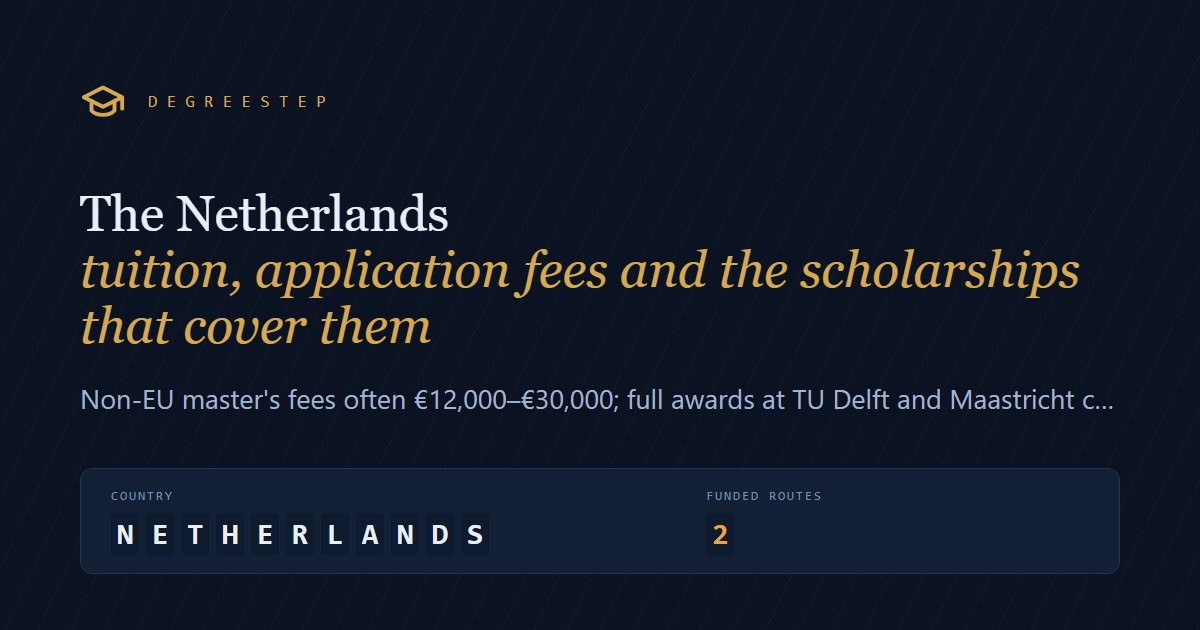
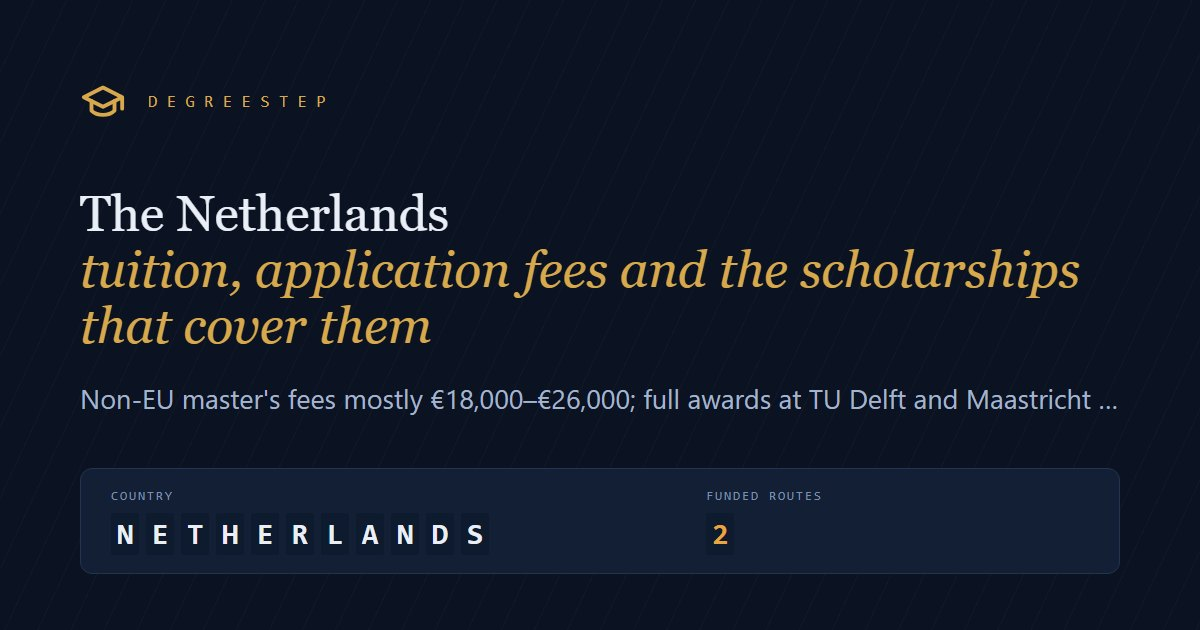
Netherlands: tuition at each university; search titles that match what people search
Search Console showed the Netherlands guide 701 times in 28 days at position 58, for searches like
"netherlands tuition fees" and "cheap tuition fee universities in netherlands", with no clicks. The
guide now has a table of non-EU bachelor's and master's fees for 13 research universities, from each
university's own fee page, the cheapest options, and a search title built around those searches.

Funded PhDs guide, no-application-fee guide and the ETH fellowships story get search titles and
descriptions closer to their searches ("paid phd positions in europe", "eth ai center doctoral
fellowship 2027"). Two contextual links point to the Netherlands guide. The PhD guide no longer says
how its examples were checked.

Changed region(s): [[0.2775, 0.6032, 0.925, 0.6635]]

diff --git a/content/guides/funded-phd-europe.html b/content/guides/funded-phd-europe.html
@@ -1,13 +1,13 @@
-<!--{"title": "How funded PhDs work in Europe: salaried posts, fellowships and scholarships", "description": "In much of Europe a PhD is a paid job, not a scholarship. How salaried PhD posts, doctoral fellowships and PhD scholarships differ, how to read a PhD advert, and where to find funded positions.", "meta_title": "How funded PhDs work in Europe: salaried posts and fellowships", "meta_description": "In much of Europe a PhD is a paid job. How salaried posts, doctoral fellowships and PhD scholarships differ, how to read an advert and where to find positions.", "kicker": "PhD", "updated": "2026-10-05", "order": 9.5, "menu": "Funded PhDs in Europe"}-->
+<!--{"title": "How funded PhDs work in Europe: salaried posts, fellowships and scholarships", "description": "In much of Europe a PhD is a paid job, not a scholarship. How salaried PhD posts, doctoral fellowships and PhD scholarships differ, how to read a PhD advert, and where to find funded positions.", "meta_title": "Paid PhD positions in Europe: salaries and how funded PhDs work", "meta_description": "In Sweden, Norway, Denmark and much of Europe a PhD is a paid job. Real salaries, doctoral fellowships and scholarships, and where to find funded PhD positions.", "kicker": "PhD", "updated": "2026-10-05", "order": 9.5, "menu": "Funded PhDs in Europe"}-->
 <p>If you are used to thinking of a PhD as something you need a scholarship for, Europe can be a pleasant surprise. In much of the continent a PhD is a <strong>job</strong>: the university advertises a position, pays you a salary, and you apply for it much as you would for any other job. Alongside these sit doctoral fellowship programmes and classic PhD scholarships. Knowing which kind you are applying for changes how you search, what you send, and what you can expect to earn.</p>
 
-<p>The examples below come from real adverts we checked on 5 October 2026 and list on our <a href="{{root}}positions/">funded positions</a> page.</p>
+<p>The examples below come from real adverts listed on our <a href="{{root}}positions/">funded positions</a> page.</p>
 
 <h2>1. The PhD as a salaried job</h2>
 <p>In <strong>Sweden</strong>, doctoral students are employed on fixed-term contracts that cover four years of full-time doctoral study. Many posts include up to 20% teaching or administration, which can stretch the contract to five years. Lund University's 2026 advert for a PhD in datacenter control, for example, offers SEK 35,900 a month to start, with yearly increases.</p>
 <p>In <strong>Norway</strong>, the post is usually called a doctoral research fellowship. At the University of Oslo it typically lasts three years, and adverts in autumn 2026 offered NOK 550,800 to about 607,500 a year, from which 2% goes to the state pension fund.</p>
 <p>In <strong>Denmark</strong>, three-year PhD positions are also salaried: a University of Copenhagen humanities PhD advertised in October 2026 paid about DKK 31,844 a month plus an 18.07% pension contribution.</p>
-<p>Many PhD positions in the Netherlands and Germany are employment contracts too, though terms vary more, so read each advert. Because these are jobs, they come with employee rights, and in Sweden, Norway and Denmark you do not need a separate scholarship at all.</p>
+<p>Many PhD positions in the <a href="{{root}}countries/netherlands/">Netherlands</a> and <a href="{{root}}countries/germany/">Germany</a> are employment contracts too, though terms vary more, so read each advert. Because these are jobs, they come with employee rights, and in Sweden, Norway and Denmark you do not need a separate scholarship at all.</p>
 
 <div class="callout"><b>Tip:</b> a salaried PhD usually counts as income for your residence permit, which makes the visa far simpler than proving savings. See our <a href="{{root}}guides/visa-money-work-compared/">visa money comparison</a>.</div>
 

diff --git a/content/guides/universities-with-no-application-fee.html b/content/guides/universities-with-no-application-fee.html
@@ -1,4 +1,4 @@
-<!--{"title": "Universities with no application fee, and how to get the fee waived", "description": "Which universities in Europe, the UK, the USA and Canada let international students apply for free, what the others charge, and the waivers that bring the cost to zero.", "meta_title": "Universities with no application fee, and how to get it waived", "meta_description": "Which universities in Europe, the UK, the USA and Canada let international students apply for free, what others charge, and waivers that bring it to zero.", "kicker": "Money", "updated": "2026-10-09", "published": "2026-10-09", "order": 2.2, "menu": "Universities with no application fee"}-->
+<!--{"title": "Universities with no application fee, and how to get the fee waived", "description": "Which universities in Europe, the UK, the USA and Canada let international students apply for free, what the others charge, and the waivers that bring the cost to zero.", "meta_title": "Universities with no application fee, from the Netherlands to the US", "meta_description": "Universities that let international students apply for free, including Wageningen and Twente in the Netherlands, Ghent and Vienna, plus fee waivers.", "kicker": "Money", "updated": "2026-10-09", "published": "2026-10-09", "order": 2.2, "menu": "Universities with no application fee"}-->
 <p>Application fees add up quickly: five applications at €100 each cost €500, and none of it comes back if you are turned down. But some good universities charge nothing at all, a few give the money back when you enrol, and several of the best-known waive their fee for applicants who cannot pay. Here is where, country by country, for applications made from autumn 2026.</p>
 
 <h2>Universities that charge no application fee</h2>

diff --git a/content/guides/real-cost-of-free-tuition.html b/content/guides/real-cost-of-free-tuition.html
@@ -18,6 +18,7 @@
   <li><strong>Parts of Germany:</strong> the state of Baden-Württemberg charges non-EU students €1,500 a semester, and TU Munich has charged non-EU students since winter 2024.</li>
   <li><strong>Finland and Sweden:</strong> English-taught degrees charge non-EU students tuition: Helsinki's master's fees are €13,000–€18,000 a year, although scholarships can cover it.</li>
 </ul>
+<p>Elsewhere, non-EU students have always paid full fees. In the Netherlands, for example, master's fees at research universities are mostly €18,000–€26,000 a year; our <a href="{{root}}countries/netherlands/">Netherlands guide</a> lists the fee at each university.</p>
 
 <!--ad-->
 

diff --git a/tests/test_site.py b/tests/test_site.py
@@ -485,7 +485,7 @@ class BuiltSite(unittest.TestCase):
             self.assertLessEqual(len(title), 70, f"{where}: {title}")
             self.assertTrue(25 <= len(desc) <= 160, f"{where}: {len(desc)} characters: {desc}")
         nl = self.pages[self.site / "countries" / "netherlands" / "index.html"]
-        self.assertIn("<title>Netherlands: tuition, application fees and scholarships · DegreeStep</title>", nl)
+        self.assertIn("<title>Netherlands tuition fees for international students, by university</title>", nl)
         self.assertIn("<h1>The Netherlands: tuition, application fees and the scholarships that cover them</h1>", nl)
 
     def test_country_guides_answer_application_fees(self):
